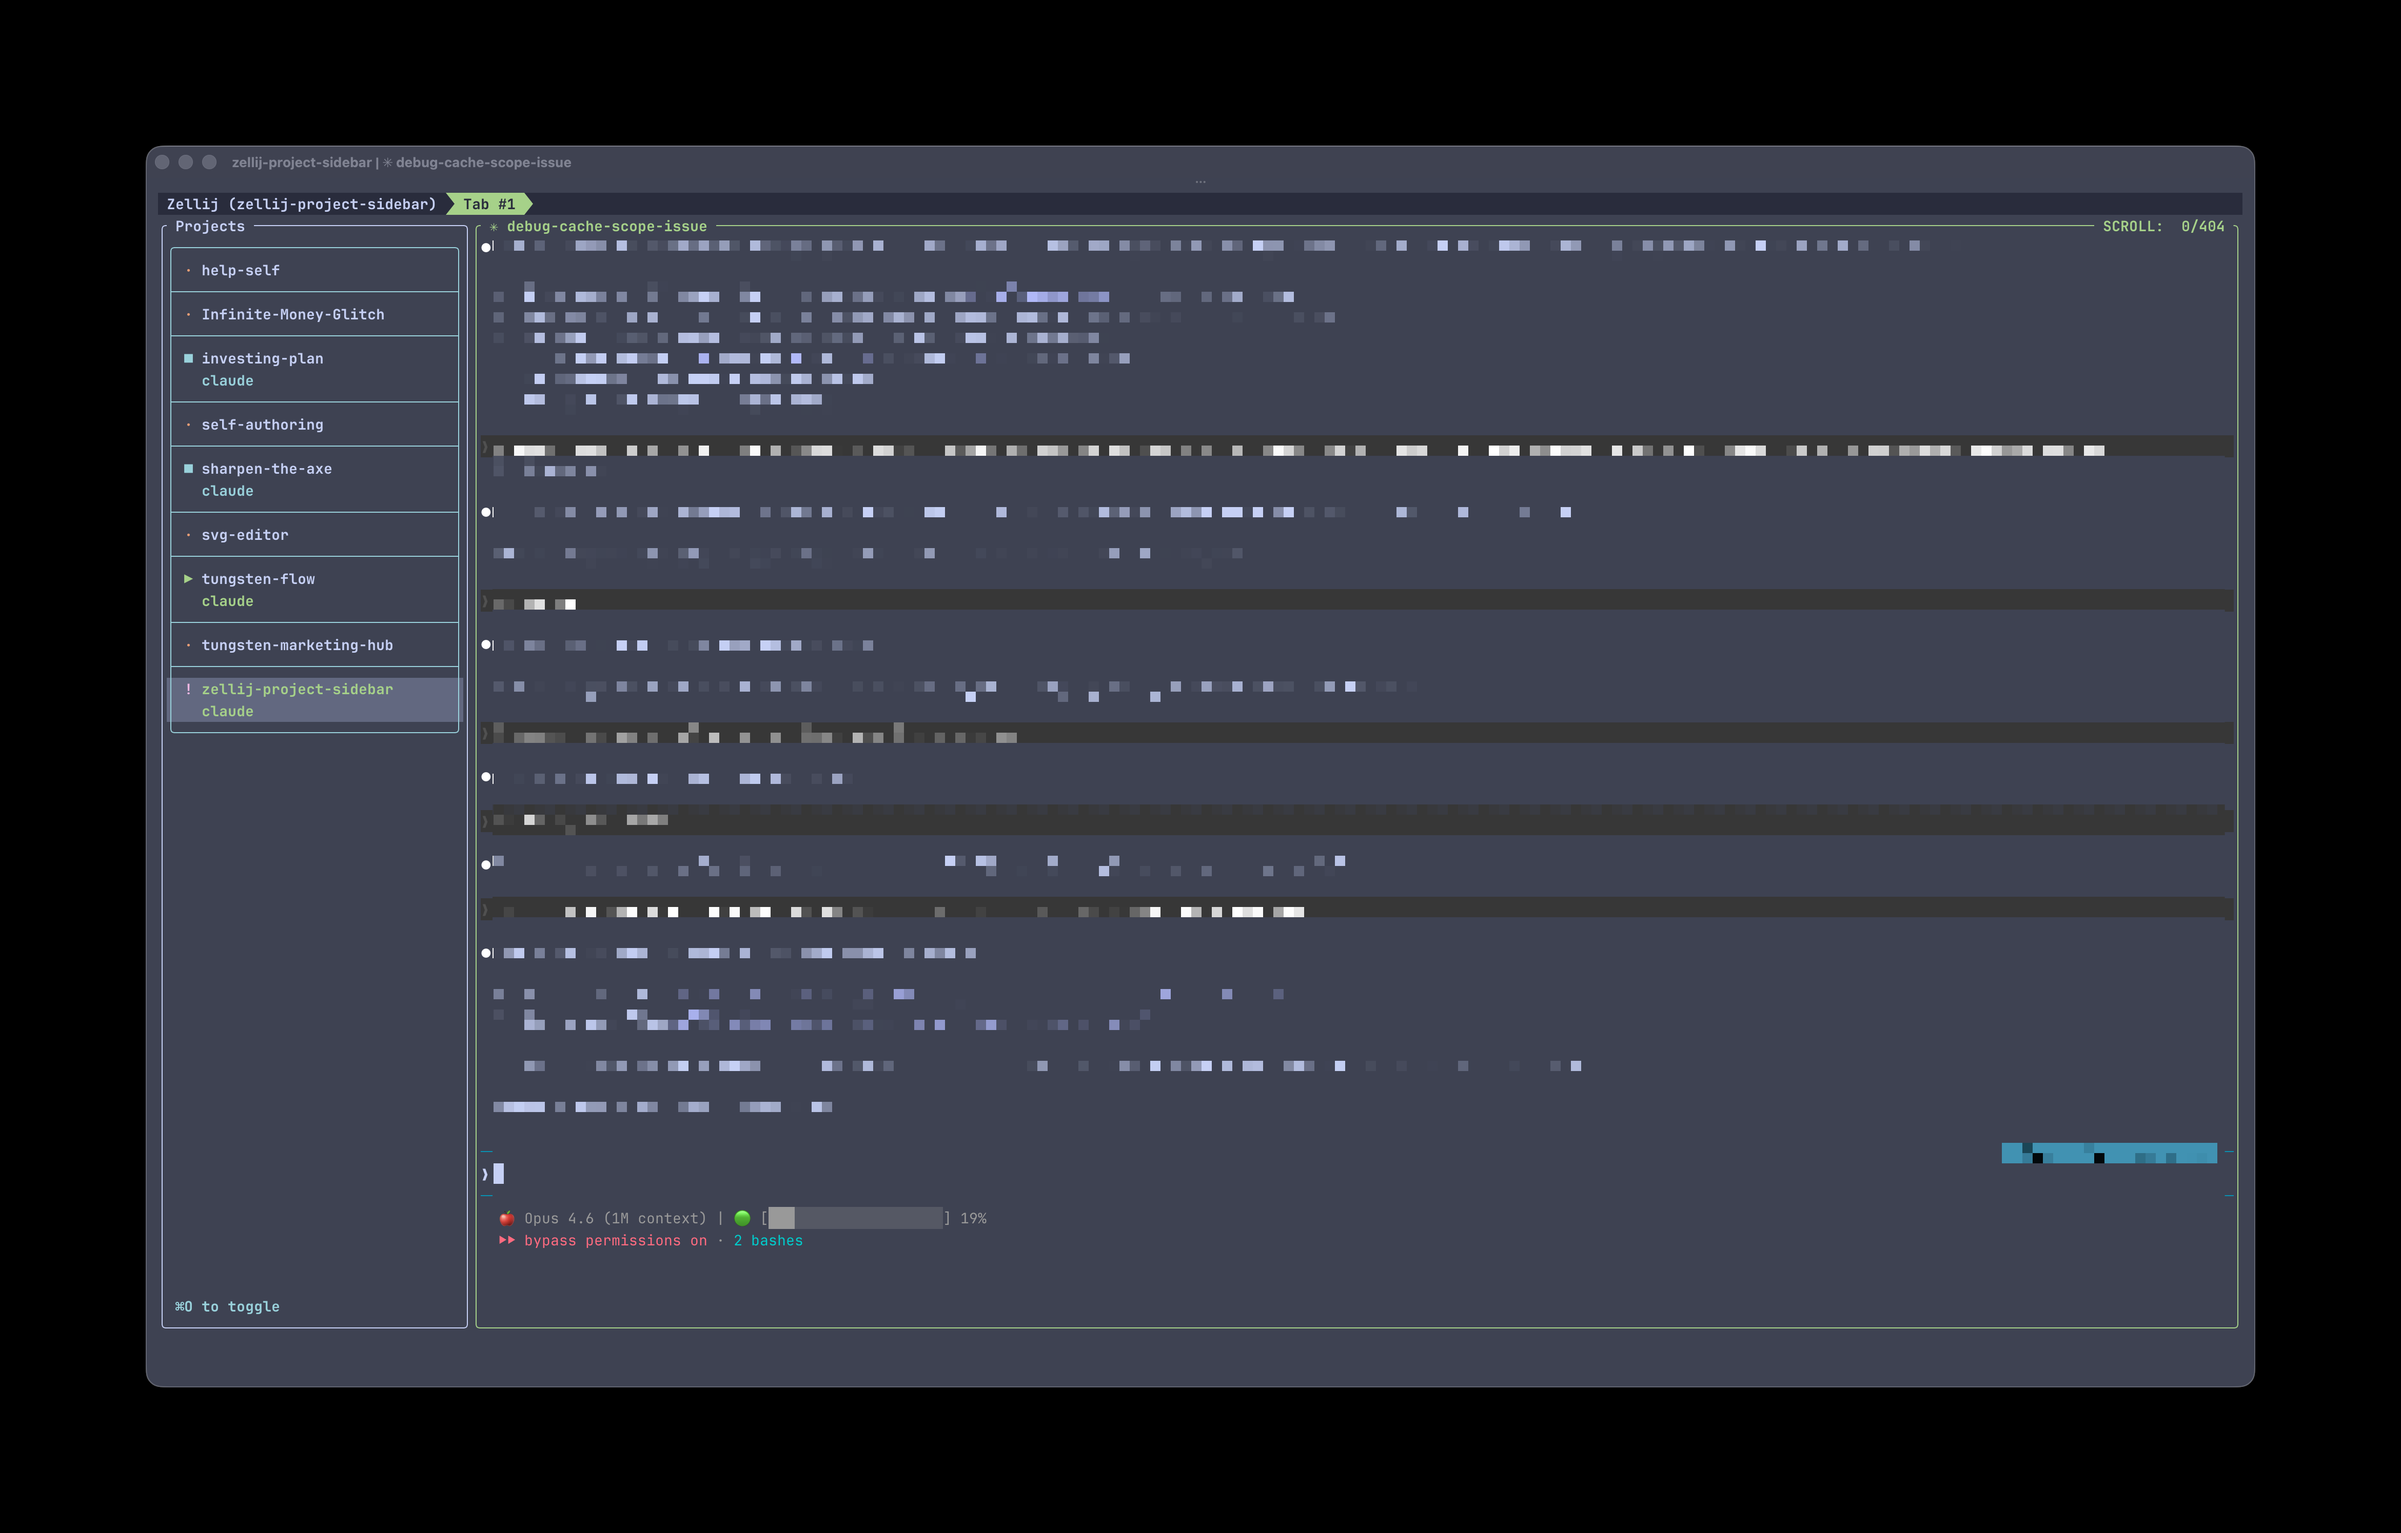
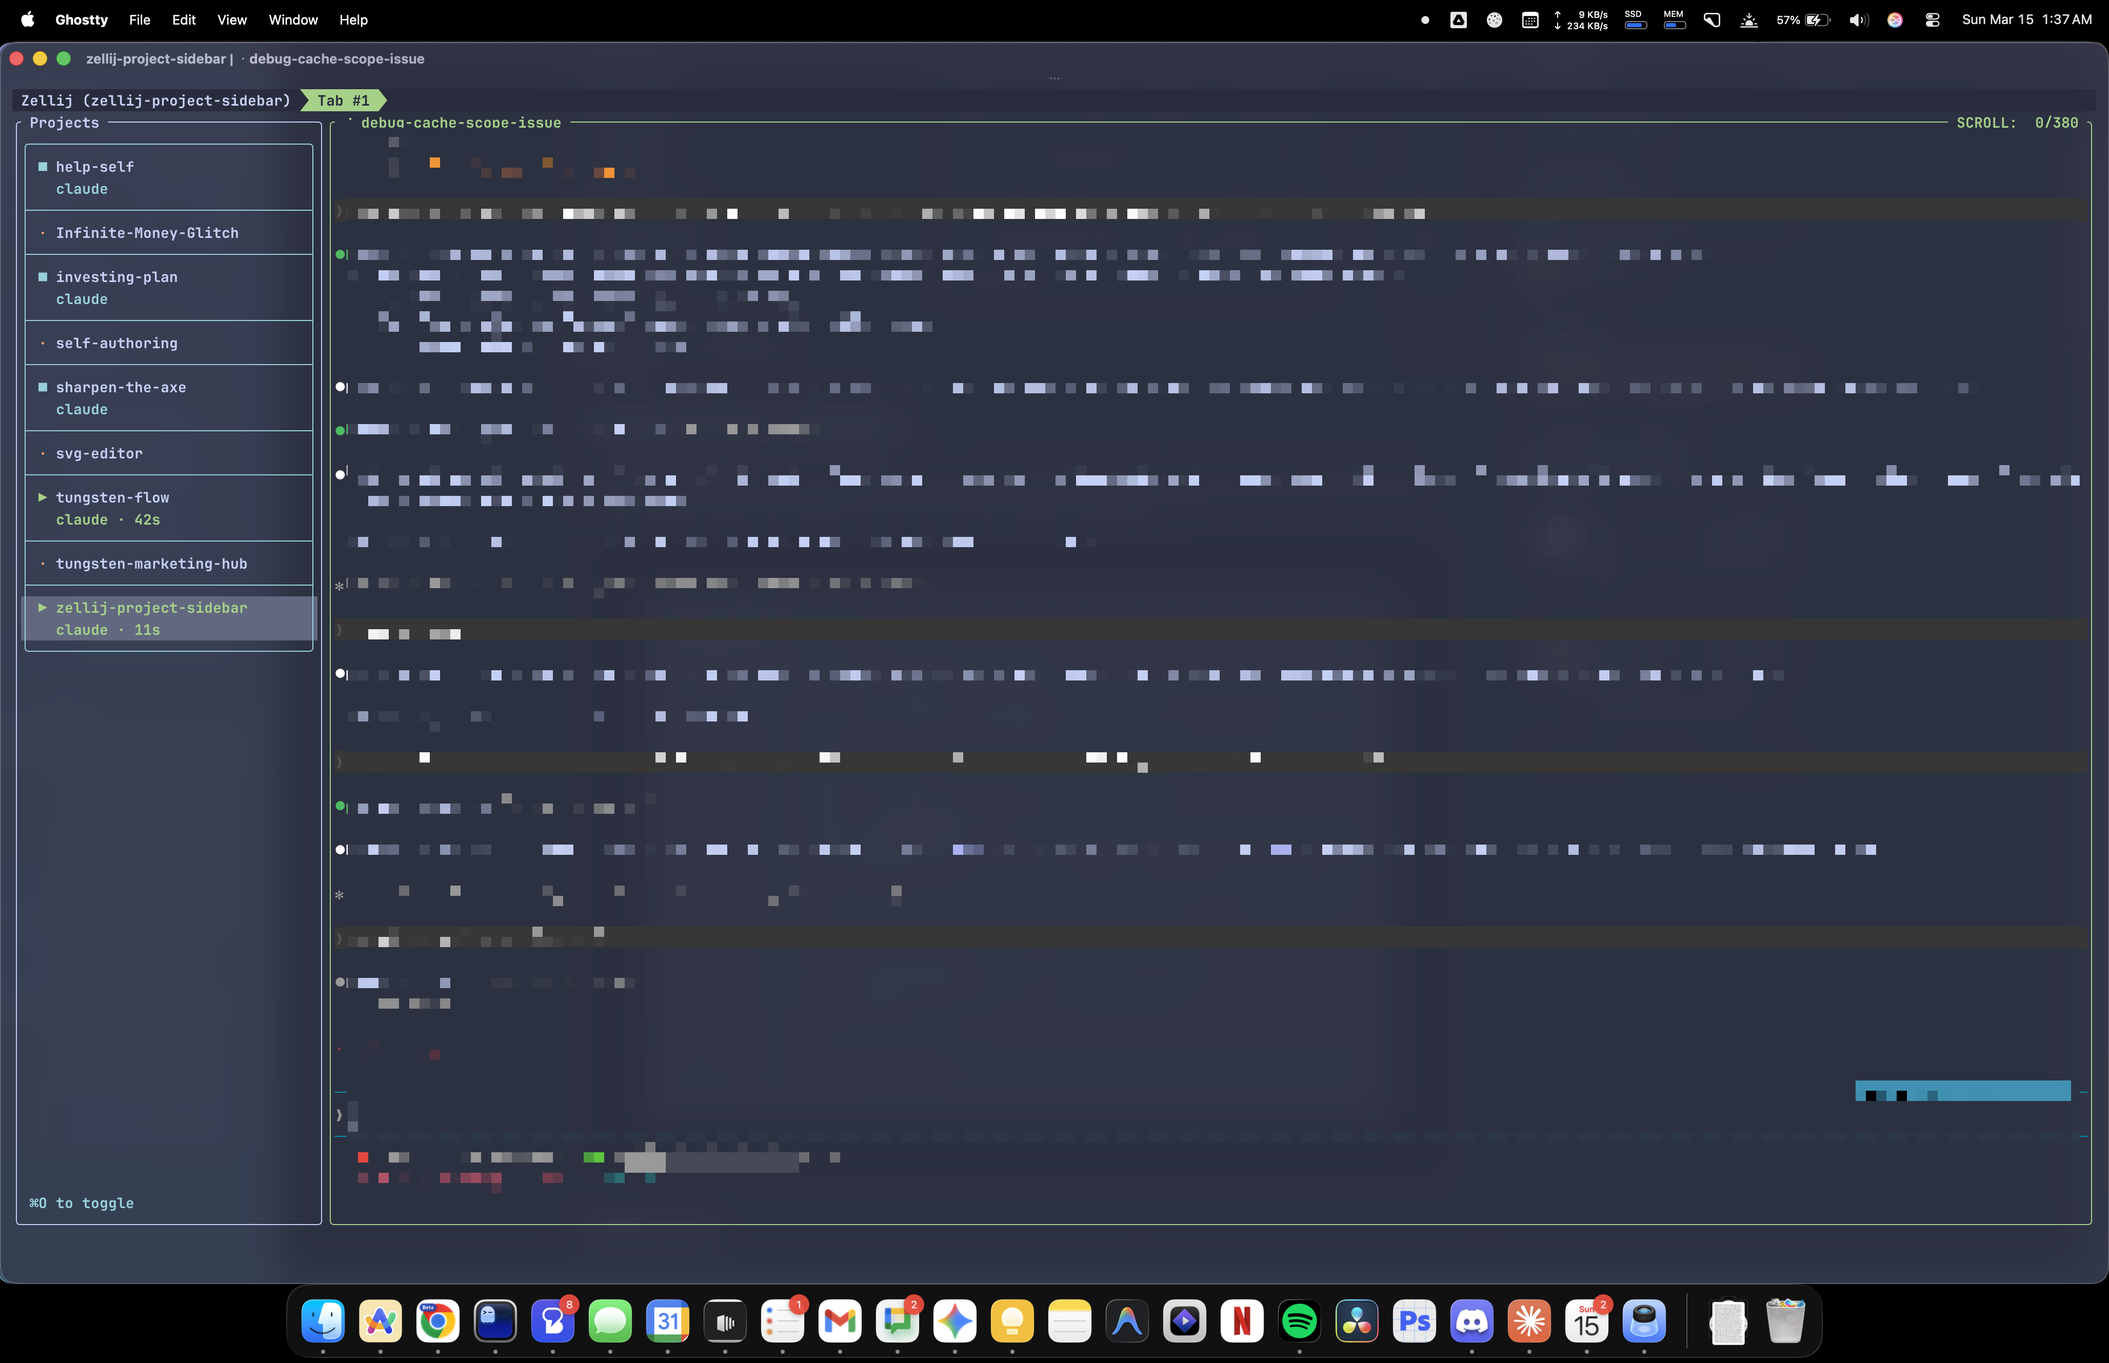
feat: instant sidebar restore on load, last turn duration, updated screenshot
- Cache project snapshot to /tmp/sidebar-snapshot on each SessionUpdate
- Restore snapshot in load() so sidebar renders instantly — no blank flash
- Hook script tracks active turn duration and writes it on Stop/Notification
- Idle sessions show "claude · took 2m" instead of counting up forever
- Updated screenshot showing duration timers and cross-session AI visibility

diff --git a/src/main.rs b/src/main.rs
@@ -867,6 +867,52 @@ layout {
             format!("{}h", secs / 3600)
         }
     }
+
+    /// Save a snapshot of project names+statuses so next load() can render instantly
+    fn save_snapshot(&self) {
+        let mut lines = Vec::new();
+        for p in &self.projects {
+            let status_tag = match &p.status {
+                SessionStatus::Running { is_current, .. } => {
+                    if *is_current { "current" } else { "running" }
+                }
+                SessionStatus::Exited => "exited",
+                SessionStatus::NotStarted => "not_started",
+            };
+            lines.push(format!("{}|{}|{}", p.name, p.path, status_tag));
+        }
+        let _ = std::fs::write("/tmp/sidebar-snapshot", lines.join("\n"));
+    }
+
+    /// Restore snapshot from previous session to avoid blank flash on load
+    fn restore_snapshot(&mut self) {
+        if let Ok(data) = std::fs::read_to_string("/tmp/sidebar-snapshot") {
+            let mut projects = Vec::new();
+            for line in data.lines() {
+                let parts: Vec<&str> = line.splitn(3, '|').collect();
+                if parts.len() < 3 { continue; }
+                let status = match parts[2] {
+                    "current" | "running" => SessionStatus::Running {
+                        is_current: false, // will be corrected by next SessionUpdate
+                        tab_count: 1,
+                        active_command: None,
+                    },
+                    "exited" => SessionStatus::Exited,
+                    _ => SessionStatus::NotStarted,
+                };
+                projects.push(Project {
+                    name: parts[0].to_string(),
+                    path: parts[1].to_string(),
+                    status,
+                    metadata: ProjectMetadata::default(),
+                });
+            }
+            if !projects.is_empty() {
+                self.projects = projects;
+                self.initial_load_complete = true; // render immediately, no blank frame
+            }
+        }
+    }
 }
 
 // --- Plugin Lifecycle ---
@@ -951,7 +997,8 @@ impl ZellijPlugin for State {
         // Ensure pane is focusable so user can accept the permissions dialog
         set_selectable(true);
 
-        // Restore persisted AI state so cross-session dots are visible immediately
+        // Restore previous state instantly to avoid blank flash on load
+        self.restore_snapshot();
         self.load_ai_states();
 
         eprintln!("Plugin loaded, requesting permissions");
@@ -1085,6 +1132,8 @@ impl ZellijPlugin for State {
                         self.selected_index = fi;
                     }
                 }
+                // Cache project list so next load() can render instantly
+                self.save_snapshot();
                 true
             }
             Event::Mouse(mouse) => {
